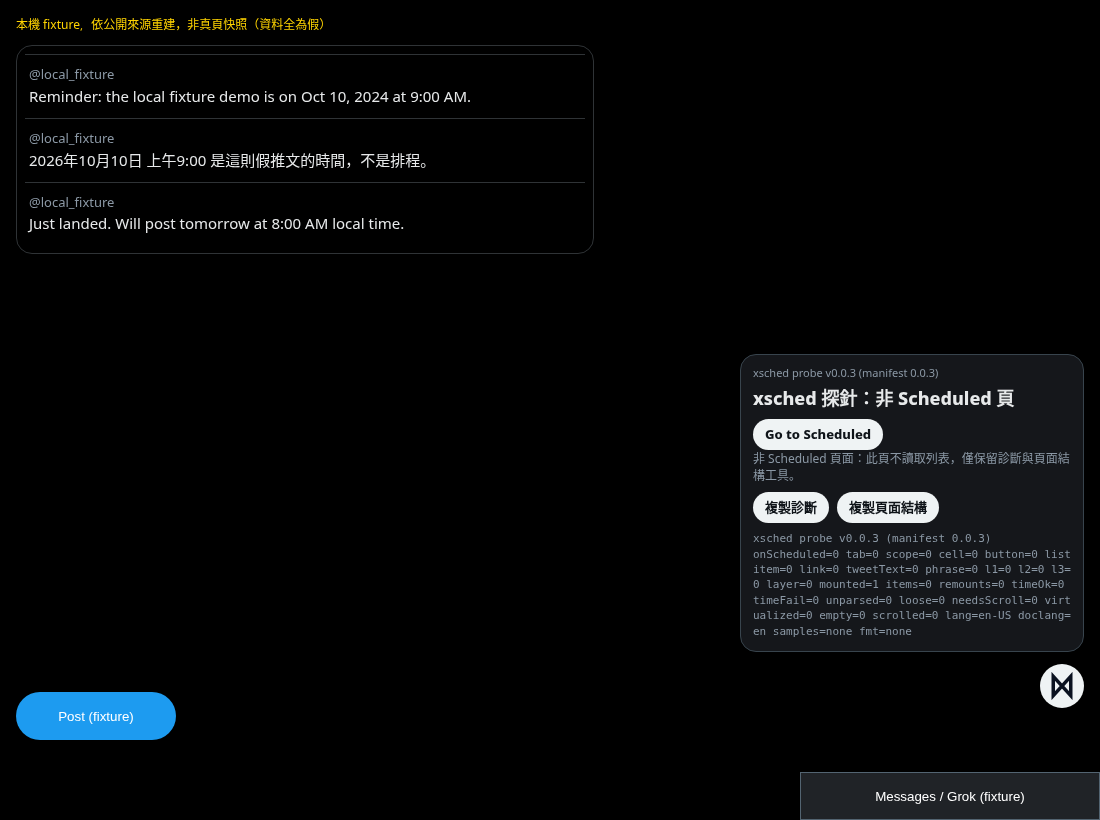
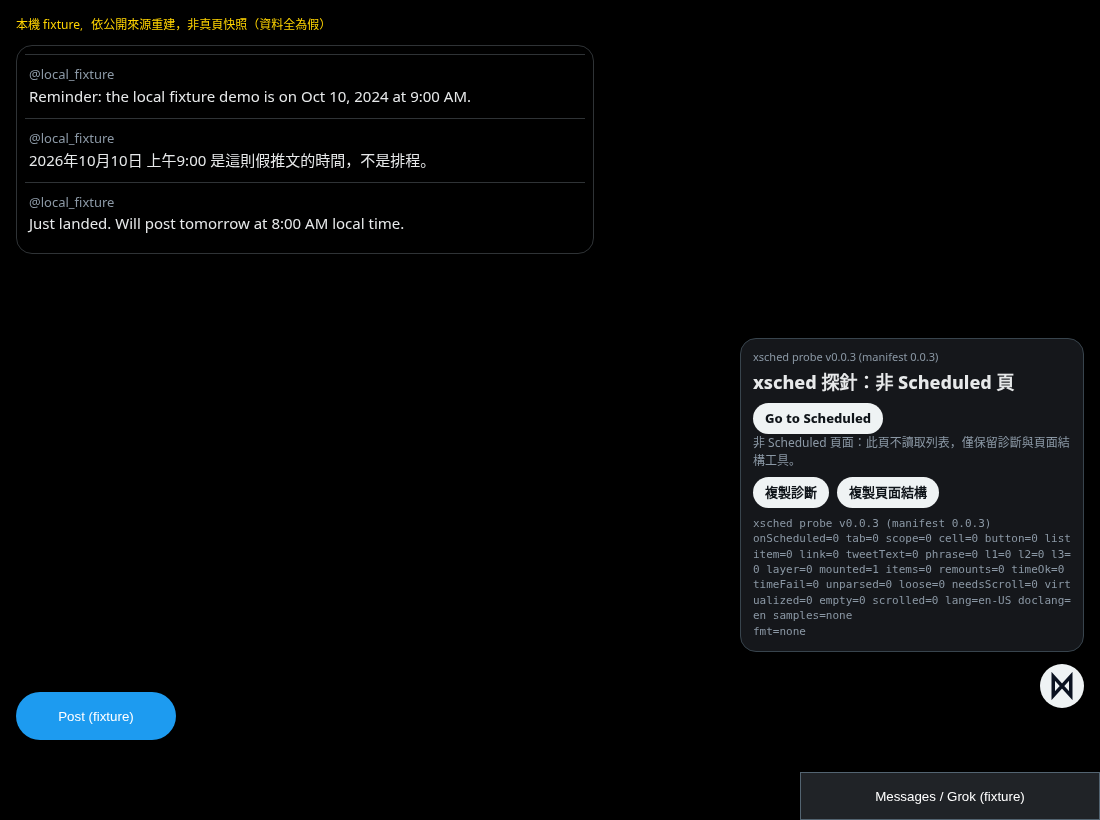
test(gate0.2): refresh screenshots after main merge (e2e 323 OK); handoff/roadmap close-out

Changed region(s): [[0.6491, 0.3963, 0.9891, 0.7927]]

diff --git a/notes/HANDOFF-gate0.2.md b/notes/HANDOFF-gate0.2.md
@@ -162,3 +162,11 @@ npm run e2e
 - 複審 session `01a12013` 跑到一半撞 Codex 用量上限（訊息：2:10 AM 後再試），**沒有 VERDICT**。它在工作樹的部分修正已外部 commit 為 `1f784f7`（點擊需 isTrusted 才導覽、`fmt=` 改獨立一行、洩漏自測 25→32）。
 - `1f784f7` 上：`npm test` 105/105、`npm run verify` OK；`npm run e2e` **FAILED**：selectors-broken 情境的 samples 斷言因 `fmt=` 換行而不符（複審改到一半）。
 - 接回：02:10 後 `codex exec resume 01a12013-6780-77c1-9466-bb1e9f78097f "..." </dev/null`，請它修完 e2e 斷言並給 VERDICT；未 APPROVE 不合併。
+
+## 收尾（2026-10-10 07:10 UTC+8）
+
+- 複審第二輪 `01a12013`：**VERDICT: APPROVE**（修 e2e samples 解析、GATE0 複審節），外部 commit。
+- 用 merge（非 rebase／force）把 origin/main（#6 公開 repo 衛生、#7 LICENSE）併進分支，無衝突。
+- 外部實跑：`npm test` 105/105、`npm run verify` OK（30 API／14 icon／9 SVG／32 洩漏自測）、`npm run e2e` OK 323 斷言；截圖已更新。
+- 公開 repo 掃描：原始 340KB 骨架不在任何 commit；`fixtures/real/`、`docs/` 無網址／email／handle／id／密鑰／真實資料。
+- 合併 main（--no-ff）。結論：**則數依骨架可讀、時間格式待老闆診斷確認**。

diff --git a/docs/plan/ROADMAP.md b/docs/plan/ROADMAP.md
@@ -30,6 +30,8 @@ Chrome 擴充，只改造 x.com 頁面：老闆照樣在網頁上發文，擴充
 
 **未達 READY**：需老闆 0.0.3 fmt／samples 診斷與新版骨架逐則確認實際时间；本輪 Chrome e2e 沙箱 listen EPERM，新增 real／跨年情境與截图請外部跑，另由另一 Codex session 複審。無新增權限／網路資源，$0，不打包 zip。本 session 不 push／PR／改 main。依據、5 步實測與可轉給老闆的請求見 `notes/GATE0.md`「閘 0.2 真頁骨架分析」；交接見 `notes/HANDOFF-gate0.2.md`。
 
+狀態（2026-10-10 07:10）：PR #5 Codex gpt-6.1-sol high 複審 APPROVE 後合 main。則數依老闆骨架可讀（內層 modal 1 則，背景時間軸排除）；**時間格式待老闆貼 0.0.3「複製診斷」（含 `fmt=`／`samples=`）確認**，確認前閘 0.2 時間硬標準不算過。
+
 ## 1.0（閘 0 過才做）
 
 1. **快速選時段**：發文框旁加按鈕，預設時段（例如 9:00／12:30／20:00，可自訂、可設星期）。一按＝打開 X 原生排程視窗並填入「下一個空時段」，老闆確認後照原流程按 Schedule。
